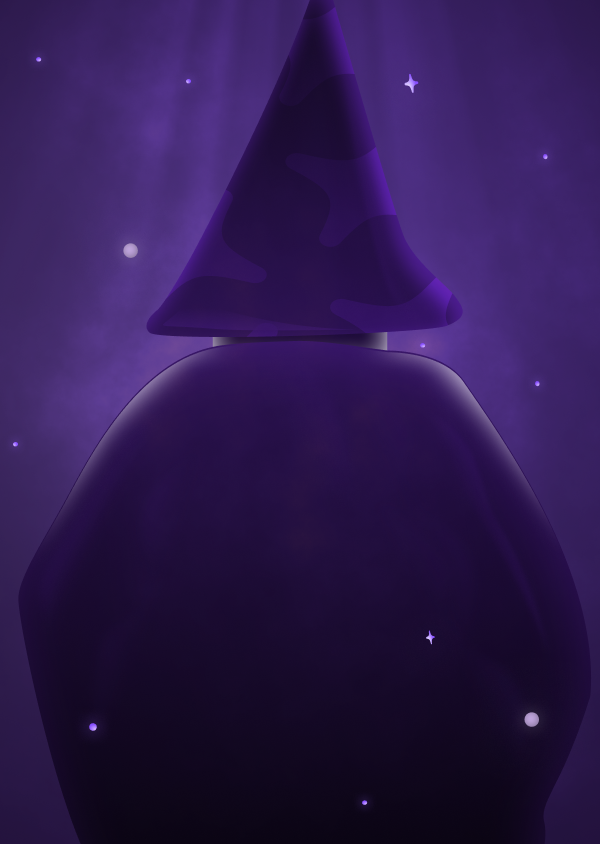
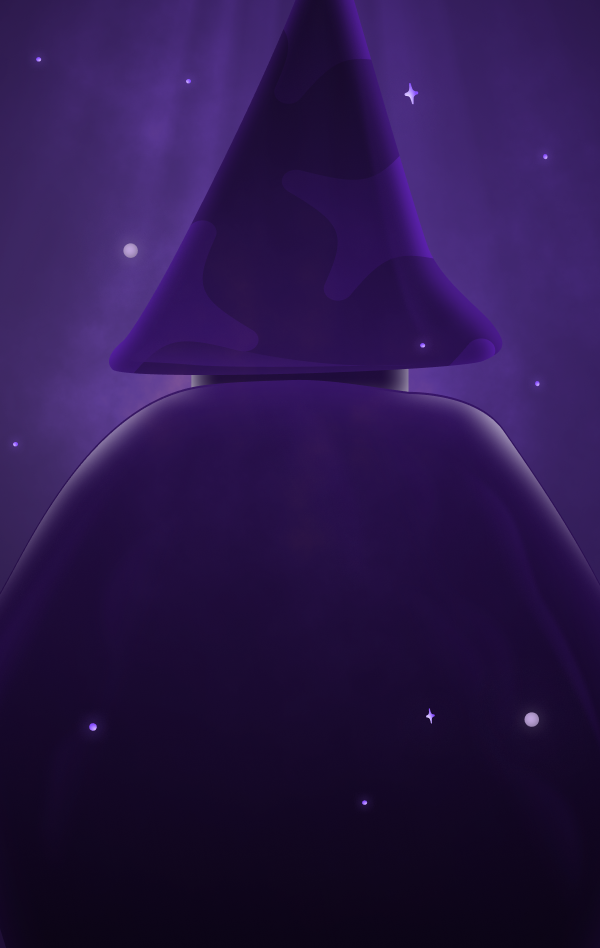
feat: 메인페이지 반응형

diff --git a/src/pagesV/MainPageV.tsx b/src/pagesV/MainPageV.tsx
@@ -57,7 +57,7 @@ function MainPage() {
 
   return (
     <div
-      className=" bg-dontworrybg bg-bgmainV min-h-screen w-full bg-contain bg-no-repeat bg-center
+      className=" bg-dontworrybg bg-bgsubV bg-cover min-h-screen bg-no-repeat bg-center
     relative flex justify-center items-end"
     >
       <span
@@ -71,19 +71,17 @@ function MainPage() {
       </span>
 
       <div className=" flex justify-center items-stretch ">
-        <div className=" self-end pb-6">
+        <div className=" self-end pb-[30%]">
           {/* 로고 텍스트 */}
           <div className="flex flex-col items-center justify-center z-50">
-            <div className="text-white font-ham sm:text-[70px] text-[90px] ">
+            <div className="text-white font-ham  text-[20vw] ">
               Witch&rsquo;s
             </div>
-            <div className="text-white font-ham sm:text-[85px] text-[105px]">
-              Mind
-            </div>
+            <div className="text-white font-ham text-[21vw]">Mind</div>
 
             {/* 고민해결하러가기 버튼 */}
             <button
-              className="text-white font-ham-l rounded-full bg-mainbutton px-12 py-4 text-[20px] mt-8
+              className="text-white font-ham-l rounded-full bg-mainbutton px-12 py-4 text-[16px] mt-[15%]
           transition hover:bg-[#F8ECFF] hover:text-mainbutton
           animate-pulse "
               onClick={() => toBook()}
@@ -93,13 +91,13 @@ function MainPage() {
             </button>
             {/* 통계 보러가기 버튼 */}
             <button
-              className="flex justify-center mt-4 text-white font-ham-l text-[15px]"
+              className="flex justify-center mt-[10%] text-white font-ham-l text-[14px]"
               onClick={() => toStatistics()}
               type="button"
             >
               상담 인격 인기도 보러 가기
               <img
-                className="w-5 ml-1 mt-[1px]"
+                className="w-5 ml-1"
                 src={popularbuttonwhiteIcon}
                 alt="popularbuttonwhiteIcon"
               />

diff --git a/tailwind.config.js b/tailwind.config.js
@@ -29,6 +29,7 @@ export default {
         bgmain: "url('@/assets/images/backgroundMain.png')",
         bgmainV: "url('@/assets/images/backgroundMainV.png')",
         bgsub: "url('@/assets/images/backgroundSub.png')",
+        bgsubV: "url('@/assets/images/backgroundSubV.png')",
         bookframe: "url('@/assets/images/frame.png')",
         bookframeV: "url('@/assets/images/frameV.png')",
       },

diff --git a/src/components/SelectWorryL.tsx b/src/components/SelectWorryL.tsx
@@ -56,7 +56,7 @@ function SelectWorryL({
   };
 
   return (
-    <div className="flex flex-col  w-[90%] h-[100%]">
+    <div className="flex flex-col w-[90%] h-[100%]">
       <div
         className="font-ham text-textTitle text-[1.3vw] mt-[3vw] mb-[1.2vw]
        flex justify-center items-center"
